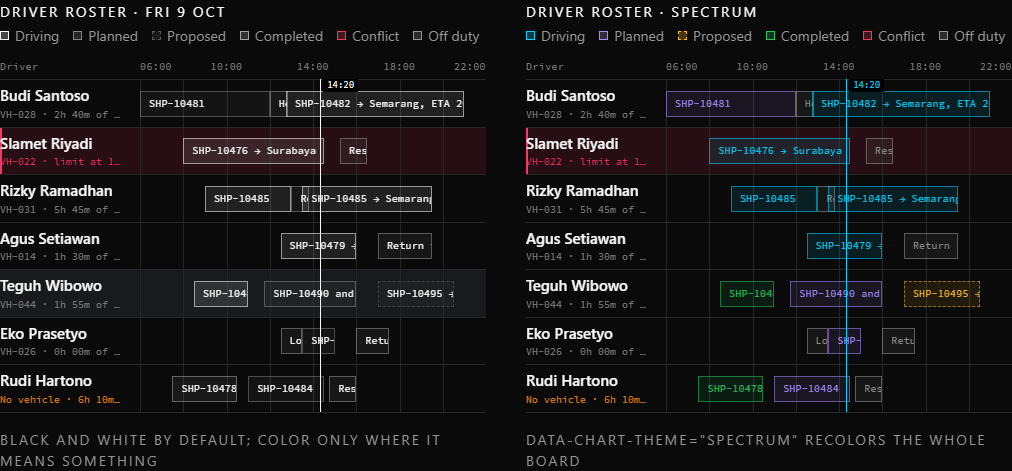
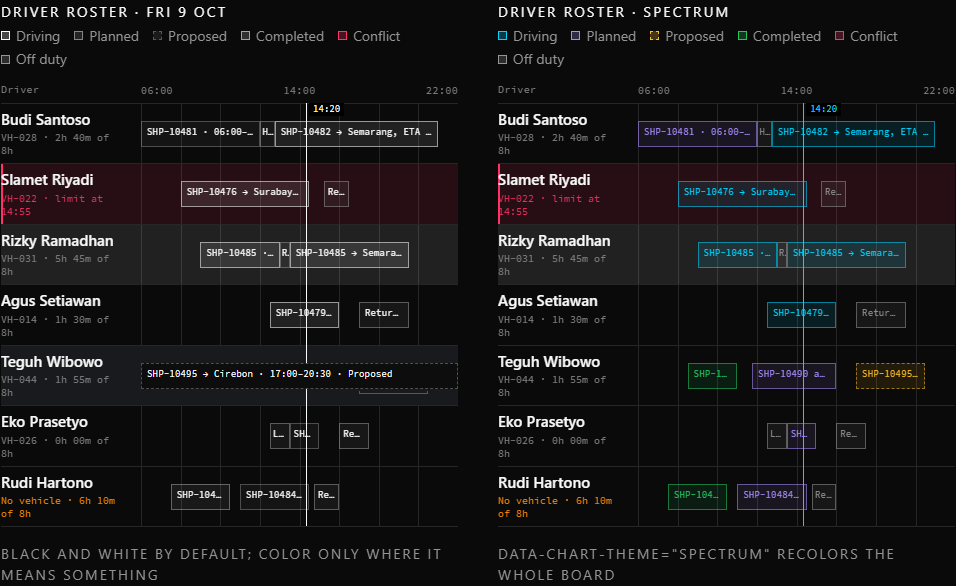
Show the final schedule label states

diff --git a/showcase/lib-charts.html b/showcase/lib-charts.html
@@ -254,7 +254,7 @@ createChart(canvas, {
                 <div class="sd-schedule-track">
                   <span class="sd-schedule-block" aria-describedby="schedule-mono-resource-7" data-status="completed" style="--from: 7.5; --to: 10.5" tabindex="0"><span class="sd-schedule-label">SHP-10478 · 07:30–10:30 · Completed</span></span>
                   <span class="sd-schedule-block" aria-describedby="schedule-mono-resource-7" data-status="planned" style="--from: 11; --to: 14.5" tabindex="0"><span class="sd-schedule-label">SHP-10484 · 11:00–14:30 · Planned</span></span>
-                  <span class="sd-schedule-block" aria-describedby="schedule-mono-resource-7" style="--from: 14.75; --to: 16" tabindex="0"><span class="sd-schedule-label">Rest until 15:30 · 14:45–16:00 · Off duty</span></span>
+                  <span class="sd-schedule-block" aria-describedby="schedule-mono-resource-7" style="--from: 14.75; --to: 16" tabindex="0"><span class="sd-schedule-label">Rest · 14:45–16:00 · Off duty</span></span>
                 </div>
               </div>
               <span class="sd-schedule-now" style="--at: 14.33" data-label="14:20"></span>
@@ -335,7 +335,7 @@ createChart(canvas, {
                 <div class="sd-schedule-track">
                   <span class="sd-schedule-block" aria-describedby="schedule-spectrum-resource-7" data-status="completed" style="--from: 7.5; --to: 10.5" tabindex="0"><span class="sd-schedule-label">SHP-10478 · 07:30–10:30 · Completed</span></span>
                   <span class="sd-schedule-block" aria-describedby="schedule-spectrum-resource-7" data-status="planned" style="--from: 11; --to: 14.5" tabindex="0"><span class="sd-schedule-label">SHP-10484 · 11:00–14:30 · Planned</span></span>
-                  <span class="sd-schedule-block" aria-describedby="schedule-spectrum-resource-7" style="--from: 14.75; --to: 16" tabindex="0"><span class="sd-schedule-label">Rest until 15:30 · 14:45–16:00 · Off duty</span></span>
+                  <span class="sd-schedule-block" aria-describedby="schedule-spectrum-resource-7" style="--from: 14.75; --to: 16" tabindex="0"><span class="sd-schedule-label">Rest · 14:45–16:00 · Off duty</span></span>
                 </div>
               </div>
               <span class="sd-schedule-now" style="--at: 14.33" data-label="14:20"></span>
